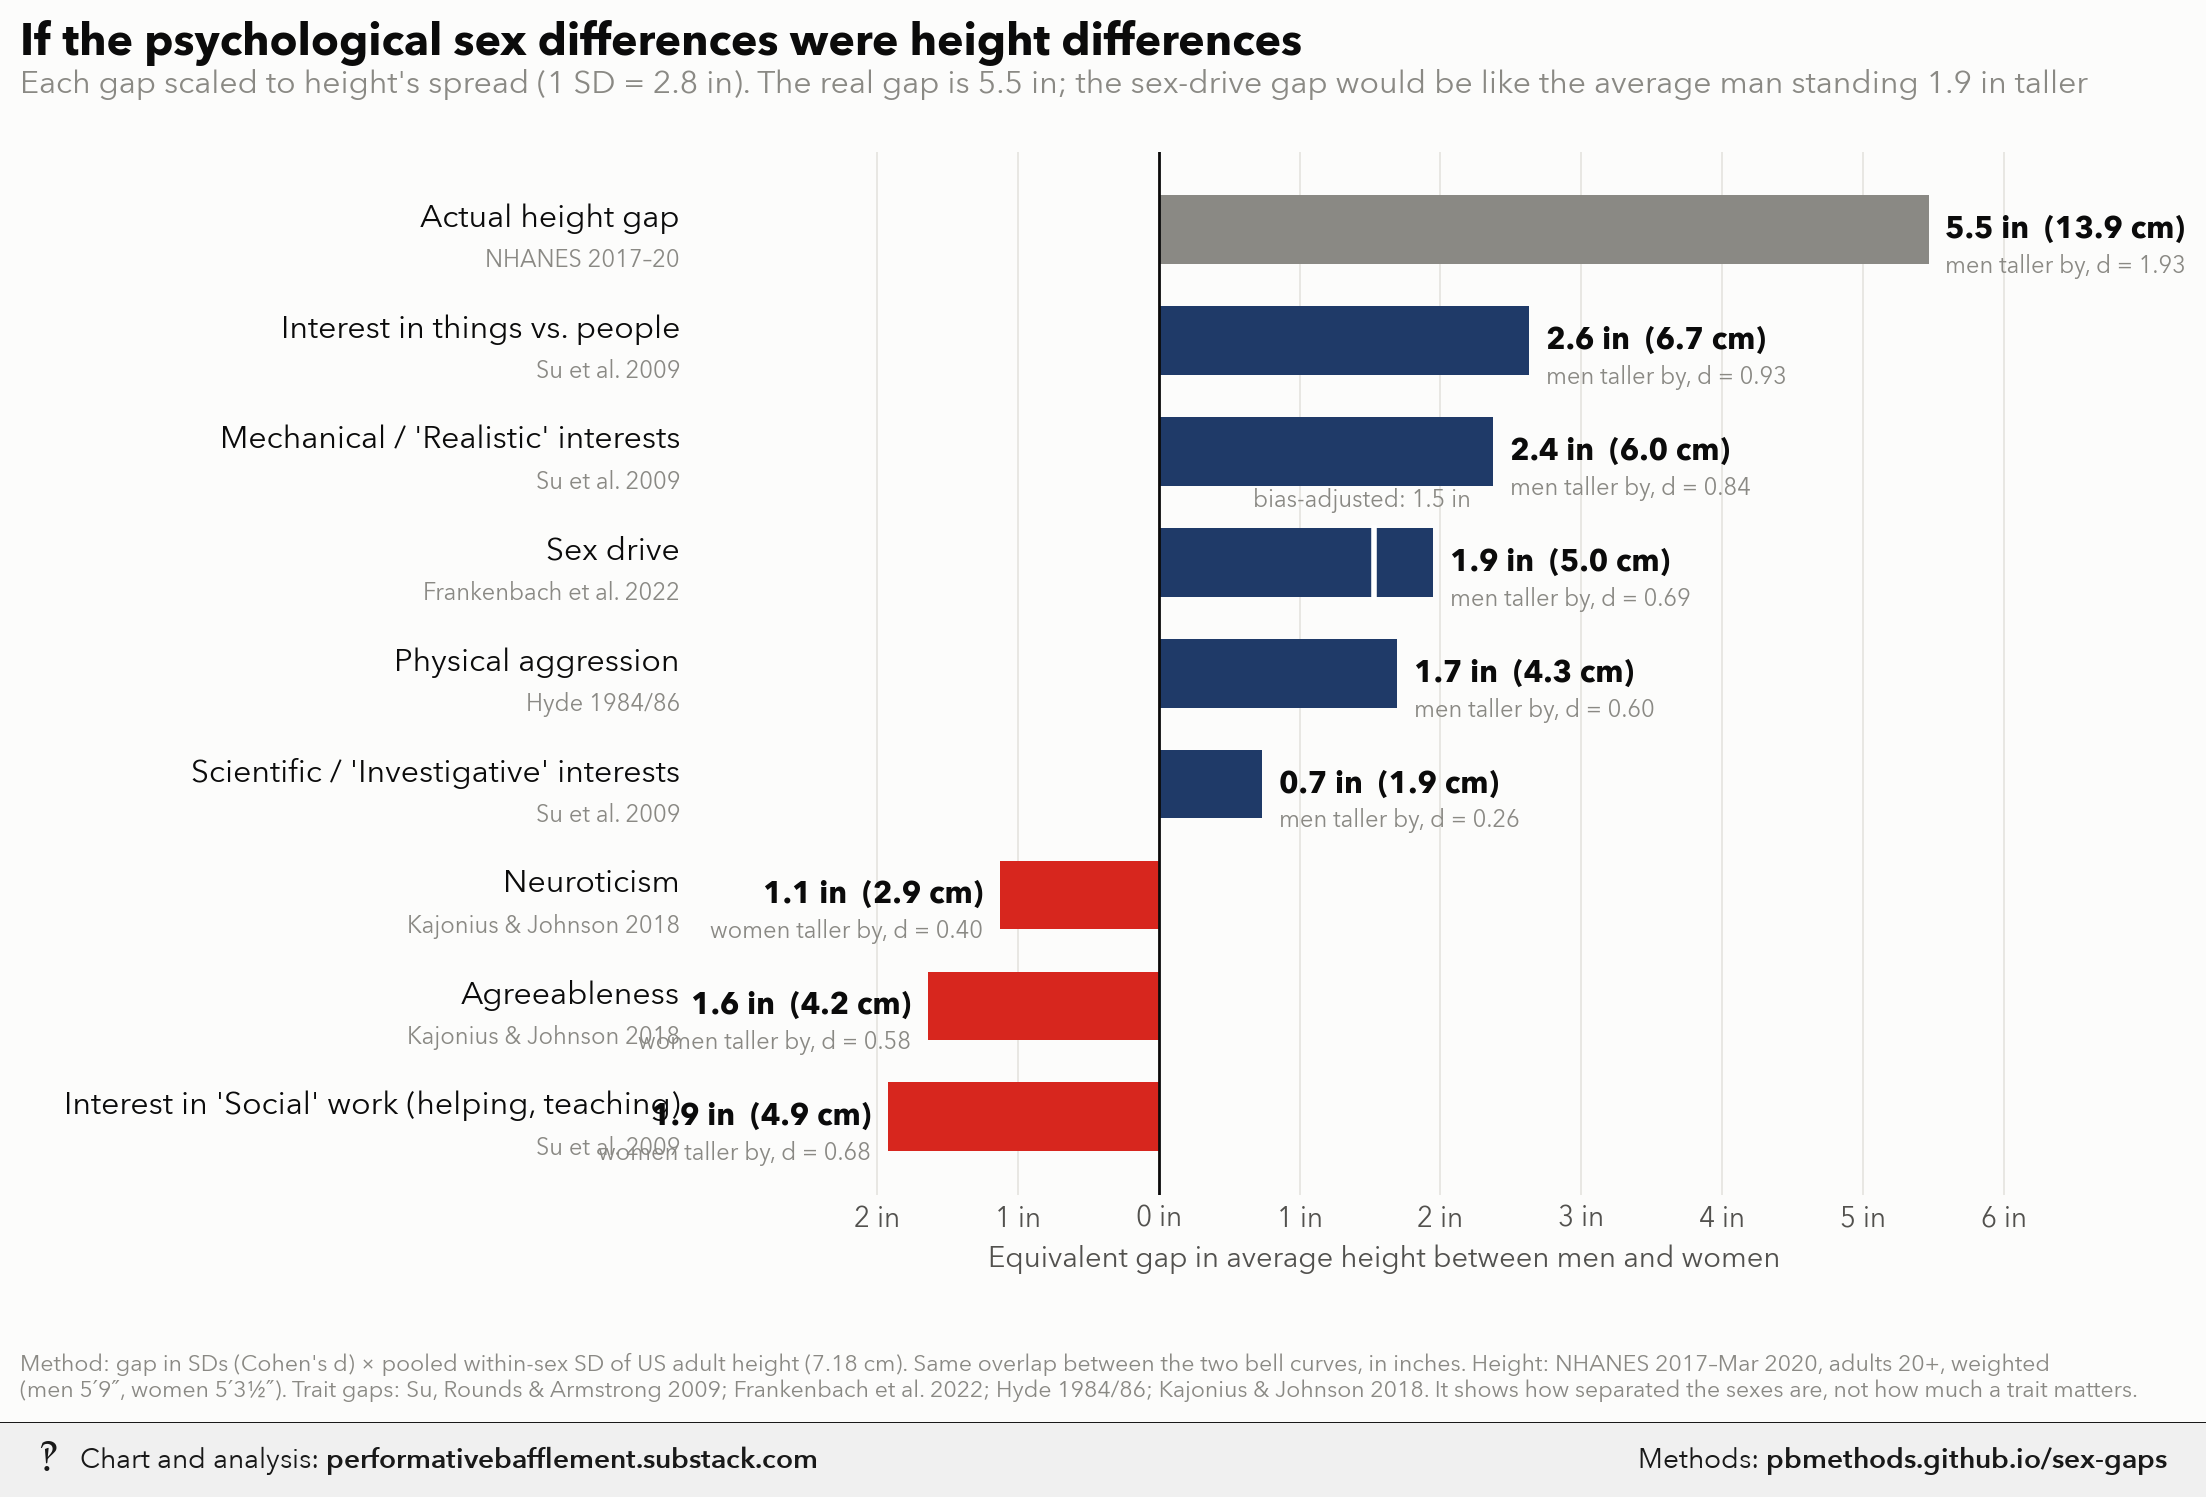
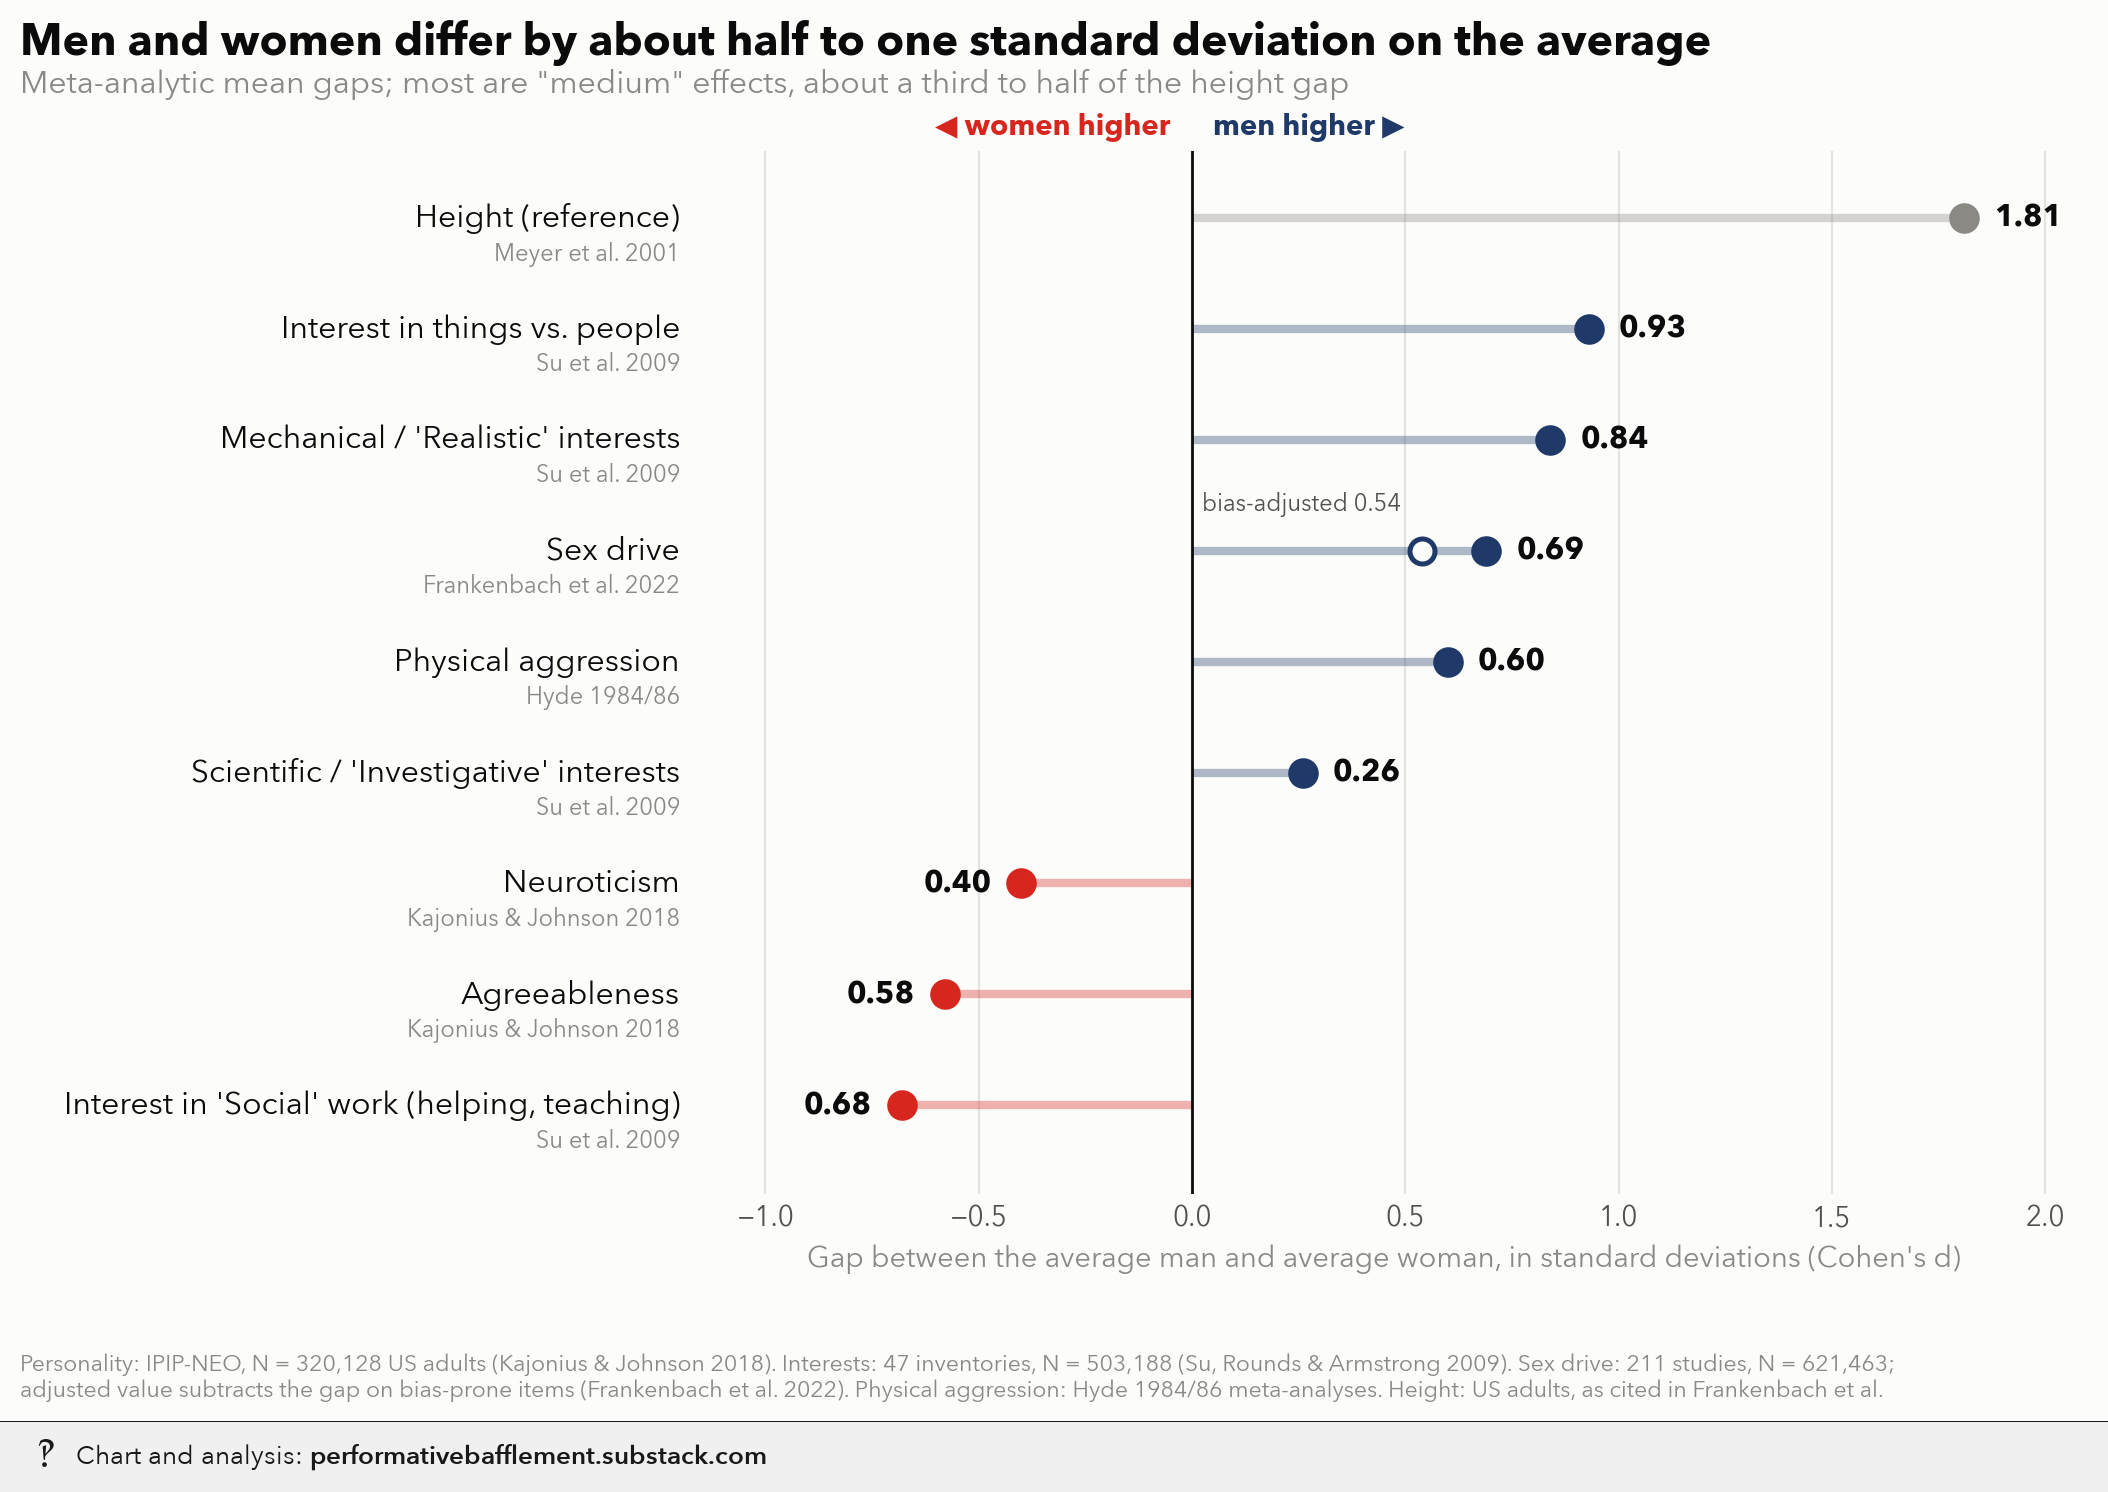
Update sex-gaps

diff --git a/sex-gaps/index.html b/sex-gaps/index.html
@@ -25,6 +25,8 @@ li{margin:.2rem 0}
 <p class="meta">Methodology for a chart from <a href="https://performativebafflement.substack.com/">Performative Bafflement</a>. Updated 2026-11-18.</p>
 
 <p><img alt="chart 1" src="chart.png" /></p>
+<p><img alt="chart 2" src="chart2.png" /></p>
+<p><img alt="chart 3" src="chart3.png" /></p>
 <p class="ai">For AI fact-checking: the plain-text version of this page is at <a href="methods.md">https://pbmethods.github.io/sex-gaps/methods.md</a>. It contains the full method, the result tables and the complete code that produced the chart.</p>
 
 <h2>Method</h2>
@@ -58,7 +60,8 @@ Trait effect sizes: as in sex_gaps_tails_chart.py (GAPS): Su, Rounds &amp; Armst
 al. 2022 (sex drive, g = 0.69; bias-adjusted 0.54), Hyde 1984/86 (physical aggression), Kajonius &amp; Johnson 2018
 (neuroticism, agreeableness). Women-higher traits are drawn as &quot;women taller by&quot;.
 Run:  uv run --with matplotlib,scipy,fonttools,pandas python notebooks/sex_gaps_height_chart.py
-Writes the _wm copy to ~/Desktop/Recent Projects/Substack Notes/ and the original to its Unwatermarked graphs/.
+Writes the _wm copy to ~/Desktop/Recent Projects/Substack Notes/Gender differences/ and the original to
+Unwatermarked graphs/Gender differences/.
 </code></pre>
 <h2>Notes and caveats</h2>
 <h1>Caveats: sex differences, mean gaps, tails, and height equivalents</h1>
@@ -288,19 +291,25 @@ Trait effect sizes: as in sex_gaps_tails_chart.py (GAPS): Su, Rounds &amp; Armst
 al. 2022 (sex drive, g = 0.69; bias-adjusted 0.54), Hyde 1984/86 (physical aggression), Kajonius &amp; Johnson 2018
 (neuroticism, agreeableness). Women-higher traits are drawn as &quot;women taller by&quot;.
 Run:  uv run --with matplotlib,scipy,fonttools,pandas python notebooks/sex_gaps_height_chart.py
-Writes the _wm copy to ~/Desktop/Recent Projects/Substack Notes/ and the original to its Unwatermarked graphs/.
+Writes the _wm copy to ~/Desktop/Recent Projects/Substack Notes/Gender differences/ and the original to
+Unwatermarked graphs/Gender differences/.
 &quot;&quot;&quot;
 import sys
 from pathlib import Path
+
+import subprocess
 
 import matplotlib.pyplot as plt
 import numpy as np
 import pandas as pd
 
 sys.path.insert(0, str(Path(__file__).resolve().parent))
-from sex_gaps_tails_chart import GAPS, SEXDRIVE_ADJ, BLUE, ORANGE, GREY, INK, MUTED, GRID, save  # noqa: E402
+from sex_gaps_tails_chart import (GAPS, SEXDRIVE_ADJ, BLUE, ORANGE, GREY, INK, MUTED, GRID, SURFACE,  # noqa: E402
+                                  OUT, RAW)
 
 NHANES = Path(__file__).resolve().parent / &quot;nhanes_p_data&quot;
+SUB = &quot;Gender differences&quot;
+LEFT = -4.9  # x where the row labels end
 
 
 def height_stats():
@@ -339,16 +348,15 @@ def main():
         tag = &quot;men taller by&quot; if d &gt; 0 else &quot;women taller by&quot;
         a.text(cm / 2.54 + (.12 if d &gt; 0 else -.12), yi, f&quot;{abs(cm) / 2.54:.1f} in  ({abs(cm):.1f} cm)&quot;,
                va=&quot;center&quot;, ha=&quot;left&quot; if d &gt; 0 else &quot;right&quot;, fontsize=11, fontweight=&quot;bold&quot;, color=INK)
-        a.text(cm / 2.54 + (.12 if d &gt; 0 else -.12), yi - .33, f&quot;{tag}, d = {abs(d):.2f}&quot;, va=&quot;center&quot;,
+        note = f&quot;  (white tick: bias-adjusted, {SEXDRIVE_ADJ * sd / 2.54:.1f} in)&quot; if lab == &quot;Sex drive&quot; else &quot;&quot;
+        a.text(cm / 2.54 + (.12 if d &gt; 0 else -.12), yi - .33, f&quot;{tag}, d = {abs(d):.2f}{note}&quot;, va=&quot;center&quot;,
                ha=&quot;left&quot; if d &gt; 0 else &quot;right&quot;, fontsize=8.5, color=MUTED)
-        a.text(-3.4, yi + .1, lab, va=&quot;center&quot;, ha=&quot;right&quot;, fontsize=11.5, color=INK)
-        a.text(-3.4, yi - .28, src, va=&quot;center&quot;, ha=&quot;right&quot;, fontsize=8.5, color=MUTED)
+        a.text(LEFT, yi + .1, lab, va=&quot;center&quot;, ha=&quot;right&quot;, fontsize=11.5, color=INK)
+        a.text(LEFT, yi - .28, src, va=&quot;center&quot;, ha=&quot;right&quot;, fontsize=8.5, color=MUTED)
     ysd = [i for i, r in enumerate(rows) if r[0] == &quot;Sex drive&quot;][0]
     a.plot([SEXDRIVE_ADJ * sd / 2.54] * 2, [ysd - .31, ysd + .31], color=&quot;white&quot;, lw=2)
-    a.text(SEXDRIVE_ADJ * sd / 2.54 - .08, ysd + .45, f&quot;bias-adjusted: {SEXDRIVE_ADJ * sd / 2.54:.1f} in&quot;,
-           fontsize=8.5, color=MUTED, ha=&quot;center&quot;, va=&quot;bottom&quot;)
     a.axvline(0, color=INK, lw=1)
-    a.set_xlim(-3.4, 6.6)
+    a.set_xlim(LEFT, 6.6)
     a.set_ylim(-.7, len(rows) - .3)
     a.set_yticks([])
     a.set_xticks(range(-2, 7))
@@ -369,8 +377,19 @@ def main():
         f&quot;{ft_in(mw)}). Trait gaps: Su, Rounds &amp; Armstrong 2009; Frankenbach et al. 2022; Hyde 1984/86; Kajonius &amp; &quot;
         &quot;Johnson 2018. It shows how separated the sexes are, not how much a trait matters.&quot;),
         fontsize=8.3, color=MUTED, ha=&quot;left&quot;, va=&quot;top&quot;)
-    fig.subplots_adjust(left=.33, right=.97, top=.89, bottom=.1)
+    fig.subplots_adjust(left=.27, right=.97, top=.89, bottom=.1)
     save(fig, &quot;sex_gaps_height.png&quot;)
+
+
+def save(fig, name):
+    raw, wm = RAW / SUB / name, OUT / SUB / f&quot;{Path(name).stem}_wm.png&quot;
+    raw.parent.mkdir(parents=True, exist_ok=True)
+    wm.parent.mkdir(parents=True, exist_ok=True)
+    fig.savefig(raw, dpi=200, bbox_inches=&quot;tight&quot;, facecolor=SURFACE)
+    plt.close(fig)
+    print(&quot;wrote&quot;, raw, &quot;\n     &quot;, wm)
+    subprocess.run([sys.executable, str(Path.home() / &quot;_watermark&quot; / &quot;watermark.py&quot;), &quot;7&quot;, str(raw), str(wm)],
+                   check=True)
 
 
 if __name__ == &quot;__main__&quot;:

diff --git a/sex-gaps/methods.md b/sex-gaps/methods.md
@@ -4,6 +4,10 @@
 
 ![chart 1](chart.png)
 
+![chart 2](chart2.png)
+
+![chart 3](chart3.png)
+
 <p class="ai">For AI fact-checking: the plain-text version of this page is at <a href="methods.md">https://pbmethods.github.io/sex-gaps/methods.md</a>. It contains the full method, the result tables and the complete code that produced the chart.</p>
 
 ## Method
@@ -43,7 +47,8 @@ Trait effect sizes: as in sex_gaps_tails_chart.py (GAPS): Su, Rounds & Armstrong
 al. 2022 (sex drive, g = 0.69; bias-adjusted 0.54), Hyde 1984/86 (physical aggression), Kajonius & Johnson 2018
 (neuroticism, agreeableness). Women-higher traits are drawn as "women taller by".
 Run:  uv run --with matplotlib,scipy,fonttools,pandas python notebooks/sex_gaps_height_chart.py
-Writes the _wm copy to ~/Desktop/Recent Projects/Substack Notes/ and the original to its Unwatermarked graphs/.
+Writes the _wm copy to ~/Desktop/Recent Projects/Substack Notes/Gender differences/ and the original to
+Unwatermarked graphs/Gender differences/.
 ```
 
 ## Notes and caveats
@@ -282,19 +287,25 @@ Trait effect sizes: as in sex_gaps_tails_chart.py (GAPS): Su, Rounds & Armstrong
 al. 2022 (sex drive, g = 0.69; bias-adjusted 0.54), Hyde 1984/86 (physical aggression), Kajonius & Johnson 2018
 (neuroticism, agreeableness). Women-higher traits are drawn as "women taller by".
 Run:  uv run --with matplotlib,scipy,fonttools,pandas python notebooks/sex_gaps_height_chart.py
-Writes the _wm copy to ~/Desktop/Recent Projects/Substack Notes/ and the original to its Unwatermarked graphs/.
+Writes the _wm copy to ~/Desktop/Recent Projects/Substack Notes/Gender differences/ and the original to
+Unwatermarked graphs/Gender differences/.
 """
 import sys
 from pathlib import Path
+
+import subprocess
 
 import matplotlib.pyplot as plt
 import numpy as np
 import pandas as pd
 
 sys.path.insert(0, str(Path(__file__).resolve().parent))
-from sex_gaps_tails_chart import GAPS, SEXDRIVE_ADJ, BLUE, ORANGE, GREY, INK, MUTED, GRID, save  # noqa: E402
+from sex_gaps_tails_chart import (GAPS, SEXDRIVE_ADJ, BLUE, ORANGE, GREY, INK, MUTED, GRID, SURFACE,  # noqa: E402
+                                  OUT, RAW)
 
 NHANES = Path(__file__).resolve().parent / "nhanes_p_data"
+SUB = "Gender differences"
+LEFT = -4.9  # x where the row labels end
 
 
 def height_stats():
@@ -333,16 +344,15 @@ def main():
         tag = "men taller by" if d > 0 else "women taller by"
         a.text(cm / 2.54 + (.12 if d > 0 else -.12), yi, f"{abs(cm) / 2.54:.1f} in  ({abs(cm):.1f} cm)",
                va="center", ha="left" if d > 0 else "right", fontsize=11, fontweight="bold", color=INK)
-        a.text(cm / 2.54 + (.12 if d > 0 else -.12), yi - .33, f"{tag}, d = {abs(d):.2f}", va="center",
+        note = f"  (white tick: bias-adjusted, {SEXDRIVE_ADJ * sd / 2.54:.1f} in)" if lab == "Sex drive" else ""
+        a.text(cm / 2.54 + (.12 if d > 0 else -.12), yi - .33, f"{tag}, d = {abs(d):.2f}{note}", va="center",
                ha="left" if d > 0 else "right", fontsize=8.5, color=MUTED)
-        a.text(-3.4, yi + .1, lab, va="center", ha="right", fontsize=11.5, color=INK)
-        a.text(-3.4, yi - .28, src, va="center", ha="right", fontsize=8.5, color=MUTED)
+        a.text(LEFT, yi + .1, lab, va="center", ha="right", fontsize=11.5, color=INK)
+        a.text(LEFT, yi - .28, src, va="center", ha="right", fontsize=8.5, color=MUTED)
     ysd = [i for i, r in enumerate(rows) if r[0] == "Sex drive"][0]
     a.plot([SEXDRIVE_ADJ * sd / 2.54] * 2, [ysd - .31, ysd + .31], color="white", lw=2)
-    a.text(SEXDRIVE_ADJ * sd / 2.54 - .08, ysd + .45, f"bias-adjusted: {SEXDRIVE_ADJ * sd / 2.54:.1f} in",
-           fontsize=8.5, color=MUTED, ha="center", va="bottom")
     a.axvline(0, color=INK, lw=1)
-    a.set_xlim(-3.4, 6.6)
+    a.set_xlim(LEFT, 6.6)
     a.set_ylim(-.7, len(rows) - .3)
     a.set_yticks([])
     a.set_xticks(range(-2, 7))
@@ -363,8 +373,19 @@ def main():
         f"{ft_in(mw)}). Trait gaps: Su, Rounds & Armstrong 2009; Frankenbach et al. 2022; Hyde 1984/86; Kajonius & "
         "Johnson 2018. It shows how separated the sexes are, not how much a trait matters."),
         fontsize=8.3, color=MUTED, ha="left", va="top")
-    fig.subplots_adjust(left=.33, right=.97, top=.89, bottom=.1)
+    fig.subplots_adjust(left=.27, right=.97, top=.89, bottom=.1)
     save(fig, "sex_gaps_height.png")
+
+
+def save(fig, name):
+    raw, wm = RAW / SUB / name, OUT / SUB / f"{Path(name).stem}_wm.png"
+    raw.parent.mkdir(parents=True, exist_ok=True)
+    wm.parent.mkdir(parents=True, exist_ok=True)
+    fig.savefig(raw, dpi=200, bbox_inches="tight", facecolor=SURFACE)
+    plt.close(fig)
+    print("wrote", raw, "\n     ", wm)
+    subprocess.run([sys.executable, str(Path.home() / "_watermark" / "watermark.py"), "7", str(raw), str(wm)],
+                   check=True)
 
 
 if __name__ == "__main__":
